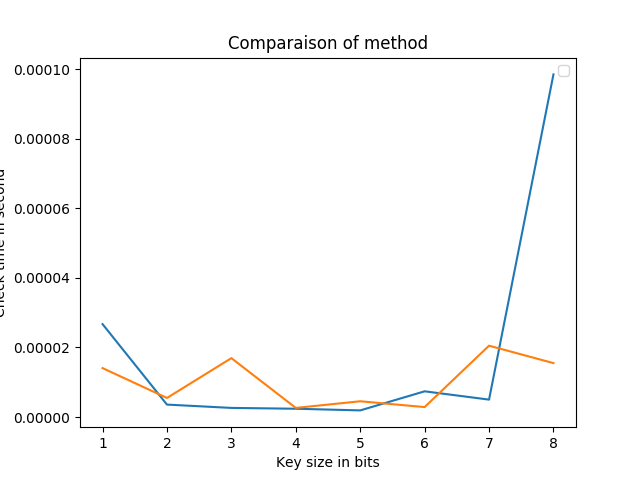
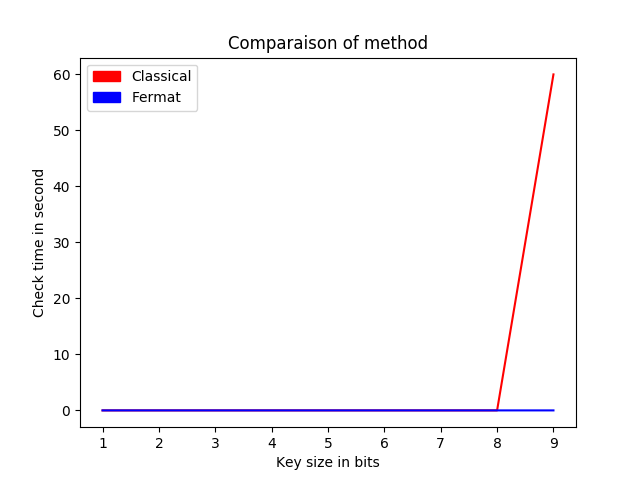
Mastering timeout

diff --git a/prime.py b/prime.py
@@ -8,6 +8,7 @@ import math
 import os
 
 import matplotlib.pyplot as plt
+import matplotlib.patches as mpatches
 
 def generatePrime(size=4096):
     candidate = random.randint(pow(2, size-1), pow(2, size))
@@ -45,7 +46,8 @@ def testPrime():
     """Testing prime function"""
 
     start_length = 1
-    end_length = 9
+    end_length = 30
+    maxtime = 10
 
     key_size= []
     time_values = []
@@ -56,11 +58,12 @@ def testPrime():
         key_size.append(taille)
         start = time.time()
         isPrime = False
-        while isPrime is False:
+        print(taille)
+        while isPrime is False and time.time() - start < maxtime:
             n = generatePrime(taille)
             isPrime = checkPrime(n)
         totalTime = time.time() - start
-        time_values.append(totalTime)
+        time_values.append(totalTime if totalTime != 10 else 10000)
 
     key_size_fermat = []
     time_values_fermat = []
@@ -71,14 +74,19 @@ def testPrime():
         key_size_fermat.append(taille)
         start = time.time()
         isPrime = False
+        print(taille)
         while isPrime is False:
             n = generatePrime(taille)
             isPrime = checkPrimeFermat(n)
         totalTime = time.time() - start
         time_values_fermat.append(totalTime)
 
-    plt.plot(key_size, time_values, key_size_fermat, time_values_fermat)
-    plt.legend("Naive sqrt/2 ", "Fermat")
+    plt.plot(key_size, time_values, 'r', key_size_fermat, time_values_fermat, 'b')
+
+    classical_patch = mpatches.Patch(color='red', label='Classical')
+    fermat_patch = mpatches.Patch(color='blue', label='Fermat')
+    plt.legend(handles=[classical_patch, fermat_patch])
+
     plt.xlabel("Key size in bits")
     plt.ylabel("Check time in second")
     plt.title("Comparaison of method")
